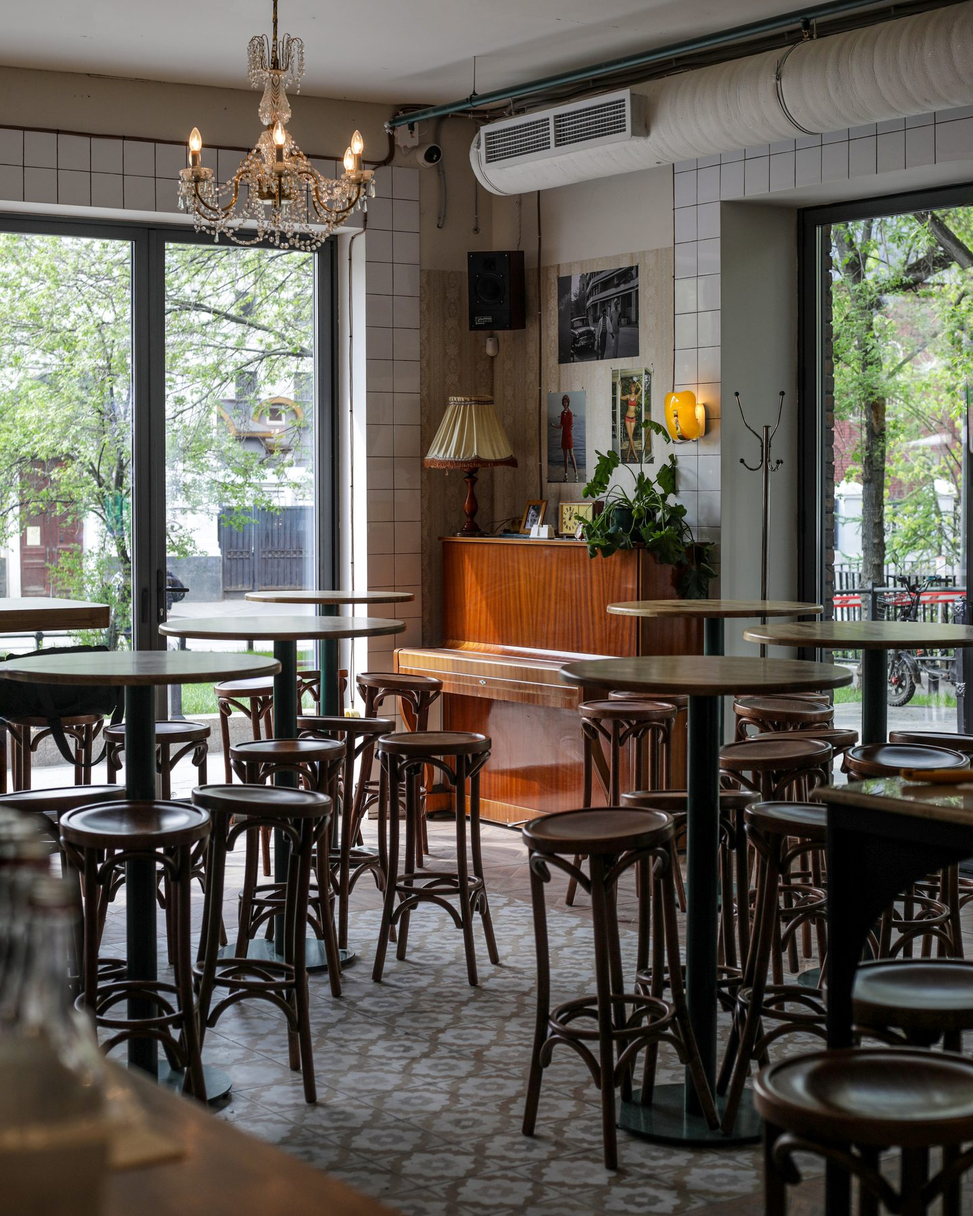
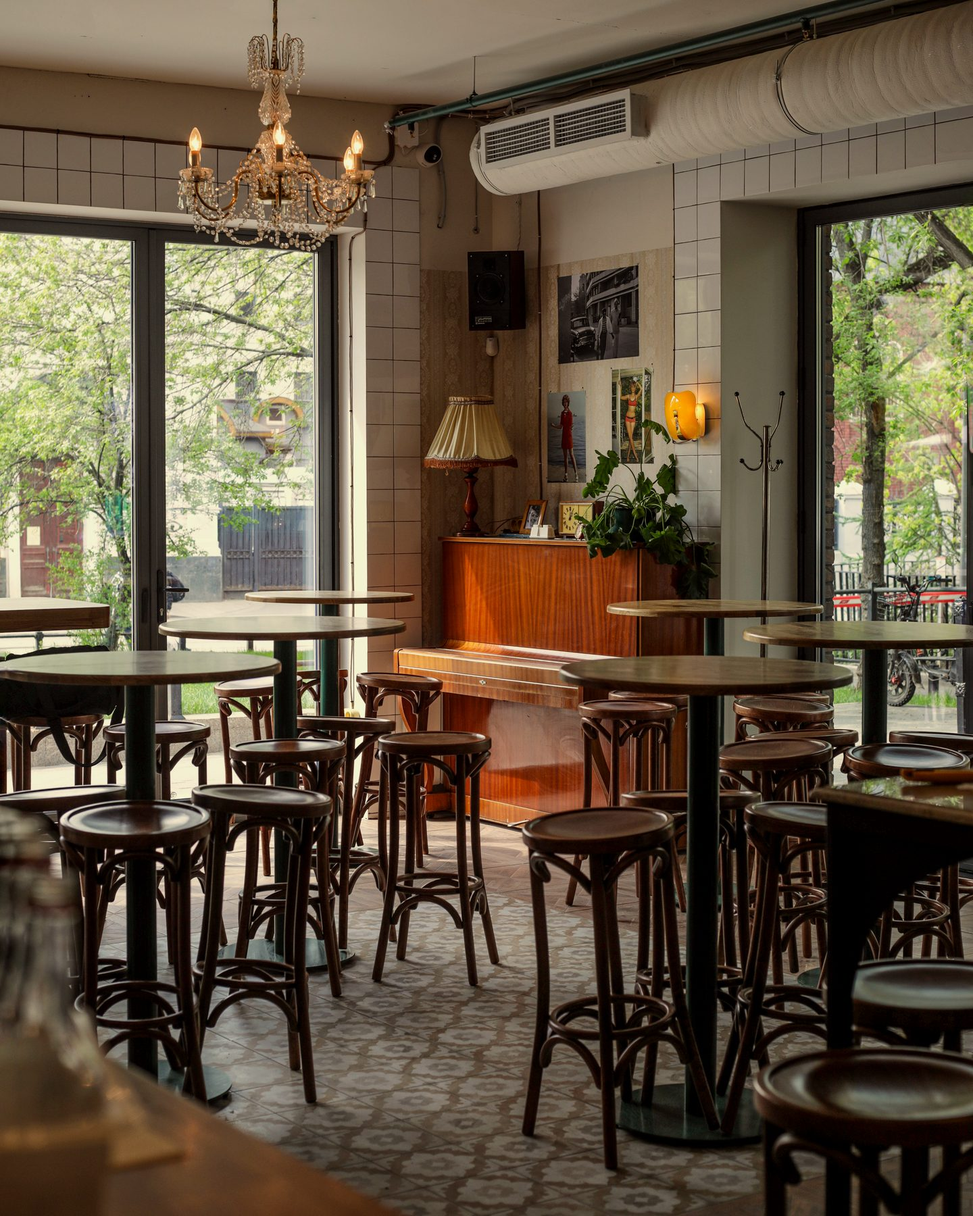
Главная: тёплая дымка и движение, плашки навигации, убрана полоска; Павелецкая теплее
Claude-Session: https://claude.ai/code/session_01RRSism5VGc6i1ygJSQoyry

diff --git a/index.html b/index.html
@@ -17,19 +17,21 @@ img{display:block;max-width:100%}
 /* nav */
 .nav{position:fixed;inset:0 0 auto 0;z-index:20;display:flex;align-items:center;justify-content:space-between;padding:22px clamp(16px,3vw,48px);transition:background .5s,padding .5s;mix-blend-mode:normal}
 .nav.solid{background:rgba(15,13,11,.82);backdrop-filter:blur(12px);-webkit-backdrop-filter:blur(12px);padding:14px clamp(16px,3vw,48px)}
+.nav .brand,.nav ul{border:1px solid rgba(241,236,228,.38);background:rgba(14,11,9,.18);backdrop-filter:blur(4px);-webkit-backdrop-filter:blur(4px);padding:11px 16px;transition:border-color .5s,background .5s}
+.nav.solid .brand,.nav.solid ul{border-color:transparent;background:transparent;padding:6px 0}
 .nav .brand{font:500 12px/1 var(--sans);letter-spacing:.3em;text-indent:.3em;text-transform:uppercase;white-space:nowrap}
 .nav .brand span{font-weight:300}
-.nav ul{display:flex;gap:clamp(18px,3vw,40px);list-style:none}
-.nav ul a{font:400 11px/1 var(--sans);letter-spacing:.22em;text-transform:uppercase;opacity:.8;transition:opacity .3s;padding:6px 0;position:relative}
+.nav ul{display:flex;gap:clamp(18px,3vw,40px);list-style:none;margin:0}
+.nav ul a{font:400 11px/1 var(--sans);letter-spacing:.22em;text-transform:uppercase;opacity:.9;transition:opacity .3s;padding:4px 0;position:relative;text-shadow:0 1px 8px rgba(0,0,0,.4)}
 .nav ul a:after{content:'';position:absolute;left:0;right:100%;bottom:0;height:1px;background:var(--ink);transition:right .4s}
 .nav ul a:hover{opacity:1}.nav ul a:hover:after{right:0}
-@media(max-width:640px){.nav ul{gap:16px}.nav ul a{font-size:10px;letter-spacing:.16em}}
+@media(max-width:640px){.nav{padding:14px 12px}.nav ul{gap:14px}.nav ul a{font-size:11px;letter-spacing:.14em}.nav .brand{font-size:11px;letter-spacing:.22em;text-indent:.22em}.nav .brand,.nav ul{padding:10px 12px}}
 /* hero */
 .hero{position:relative;height:100svh;min-height:560px;overflow:hidden;background:#0a0908}
-.slide{position:absolute;inset:-4%;background-size:cover;background-position:center;opacity:0;transition:opacity 2.2s ease;will-change:opacity,transform}
-.slide.on{opacity:1;animation:drift 26s ease-in-out infinite alternate}
-@keyframes drift{from{transform:scale(1) translate(0,0)}to{transform:scale(1.06) translate(-1%,.6%)}}
-.veil{position:absolute;inset:0;background:linear-gradient(180deg,rgba(10,9,8,.42) 0%,rgba(10,9,8,.10) 35%,rgba(10,9,8,.14) 65%,rgba(15,13,11,.92) 100%)}
+.slide{position:absolute;inset:-4%;background-size:cover;background-position:center;opacity:0;transition:opacity 2.2s ease;will-change:opacity,transform;filter:sepia(.14) saturate(.95)}
+.slide.on{opacity:1;animation:drift 24s ease-in-out infinite alternate}
+@keyframes drift{from{transform:scale(1) translate(0,0)}to{transform:scale(1.1) translate(-1.4%,-.9%)}}
+.veil{position:absolute;inset:0;background:linear-gradient(180deg,rgba(10,9,8,.42) 0%,rgba(10,9,8,.10) 35%,rgba(10,9,8,.14) 65%,rgba(15,13,11,.92) 100%),rgba(10,8,6,.30)}
 .grain{position:absolute;inset:0;opacity:.09;pointer-events:none;mix-blend-mode:overlay}
 .hero .center{position:absolute;left:50%;top:50%;transform:translate(-50%,-50%);display:flex;flex-direction:column;align-items:center;text-align:center;border:1px solid rgba(241,236,228,.5);background:rgba(14,11,9,.14);backdrop-filter:blur(2.5px);-webkit-backdrop-filter:blur(2.5px);padding:clamp(22px,3vw,36px) clamp(22px,3.4vw,44px);max-width:calc(100% - 40px)}
 .hero .center:after{content:'';position:absolute;inset:6px;border:1px solid rgba(241,236,228,.18);pointer-events:none}
@@ -134,7 +136,6 @@ footer{border-top:1px solid var(--line);padding:24px 0 34px;display:flex;justify
 <script type="application/ld+json">{"@context": "https://schema.org", "@type": "ProfessionalService", "name": "Cozy Buro", "founder": {"@type": "Person", "name": "Елена Друмлевич"}, "url": "https://cozyburo.ru", "image": "https://cozyburo.ru/img/rusalochka-asia/cover.jpg", "address": {"@type": "PostalAddress", "addressLocality": "Москва", "addressCountry": "RU"}, "sameAs": ["https://www.instagram.com/cozyburo/", "https://t.me/Lena_Drumlevich"], "description": "Бюро дизайна интерьеров ресторанов, баров и частных пространств"}</script></head><body><nav class="nav" id="nav"><a class="brand" href="">Cozy<span>Buro</span></a>
 <ul><li><a href="#projects">Проекты</a></li><li><a href="#buro">Бюро</a></li><li><a href="#contacts">Контакты</a></li></ul></nav><header class="hero"><div class="slide" id="s0"></div><div class="slide" id="s1"></div><div class="veil"></div><canvas class="grain" id="g"></canvas>
 <div class="center fade"><h1 class="mark"><span>Cozy</span><span>Buro</span><small>Interiors</small></h1><p class="line">Интерьеры с характером</p></div>
-<div class="scroll"></div>
 <div class="foot"><span class="cap" id="cap"></span><span>Moscow · since 2020</span></div></header>
 <main>
 <section class="block wrap" id="projects"><div class="head"><span class="n">01</span><h2>Коммерческие пространства</h2><span class="cnt">9 объектов</span></div>

diff --git a/p/pelmennaya.html b/p/pelmennaya.html
@@ -17,19 +17,21 @@ img{display:block;max-width:100%}
 /* nav */
 .nav{position:fixed;inset:0 0 auto 0;z-index:20;display:flex;align-items:center;justify-content:space-between;padding:22px clamp(16px,3vw,48px);transition:background .5s,padding .5s;mix-blend-mode:normal}
 .nav.solid{background:rgba(15,13,11,.82);backdrop-filter:blur(12px);-webkit-backdrop-filter:blur(12px);padding:14px clamp(16px,3vw,48px)}
+.nav .brand,.nav ul{border:1px solid rgba(241,236,228,.38);background:rgba(14,11,9,.18);backdrop-filter:blur(4px);-webkit-backdrop-filter:blur(4px);padding:11px 16px;transition:border-color .5s,background .5s}
+.nav.solid .brand,.nav.solid ul{border-color:transparent;background:transparent;padding:6px 0}
 .nav .brand{font:500 12px/1 var(--sans);letter-spacing:.3em;text-indent:.3em;text-transform:uppercase;white-space:nowrap}
 .nav .brand span{font-weight:300}
-.nav ul{display:flex;gap:clamp(18px,3vw,40px);list-style:none}
-.nav ul a{font:400 11px/1 var(--sans);letter-spacing:.22em;text-transform:uppercase;opacity:.8;transition:opacity .3s;padding:6px 0;position:relative}
+.nav ul{display:flex;gap:clamp(18px,3vw,40px);list-style:none;margin:0}
+.nav ul a{font:400 11px/1 var(--sans);letter-spacing:.22em;text-transform:uppercase;opacity:.9;transition:opacity .3s;padding:4px 0;position:relative;text-shadow:0 1px 8px rgba(0,0,0,.4)}
 .nav ul a:after{content:'';position:absolute;left:0;right:100%;bottom:0;height:1px;background:var(--ink);transition:right .4s}
 .nav ul a:hover{opacity:1}.nav ul a:hover:after{right:0}
-@media(max-width:640px){.nav ul{gap:16px}.nav ul a{font-size:10px;letter-spacing:.16em}}
+@media(max-width:640px){.nav{padding:14px 12px}.nav ul{gap:14px}.nav ul a{font-size:11px;letter-spacing:.14em}.nav .brand{font-size:11px;letter-spacing:.22em;text-indent:.22em}.nav .brand,.nav ul{padding:10px 12px}}
 /* hero */
 .hero{position:relative;height:100svh;min-height:560px;overflow:hidden;background:#0a0908}
-.slide{position:absolute;inset:-4%;background-size:cover;background-position:center;opacity:0;transition:opacity 2.2s ease;will-change:opacity,transform}
-.slide.on{opacity:1;animation:drift 26s ease-in-out infinite alternate}
-@keyframes drift{from{transform:scale(1) translate(0,0)}to{transform:scale(1.06) translate(-1%,.6%)}}
-.veil{position:absolute;inset:0;background:linear-gradient(180deg,rgba(10,9,8,.42) 0%,rgba(10,9,8,.10) 35%,rgba(10,9,8,.14) 65%,rgba(15,13,11,.92) 100%)}
+.slide{position:absolute;inset:-4%;background-size:cover;background-position:center;opacity:0;transition:opacity 2.2s ease;will-change:opacity,transform;filter:sepia(.14) saturate(.95)}
+.slide.on{opacity:1;animation:drift 24s ease-in-out infinite alternate}
+@keyframes drift{from{transform:scale(1) translate(0,0)}to{transform:scale(1.1) translate(-1.4%,-.9%)}}
+.veil{position:absolute;inset:0;background:linear-gradient(180deg,rgba(10,9,8,.42) 0%,rgba(10,9,8,.10) 35%,rgba(10,9,8,.14) 65%,rgba(15,13,11,.92) 100%),rgba(10,8,6,.30)}
 .grain{position:absolute;inset:0;opacity:.09;pointer-events:none;mix-blend-mode:overlay}
 .hero .center{position:absolute;left:50%;top:50%;transform:translate(-50%,-50%);display:flex;flex-direction:column;align-items:center;text-align:center;border:1px solid rgba(241,236,228,.5);background:rgba(14,11,9,.14);backdrop-filter:blur(2.5px);-webkit-backdrop-filter:blur(2.5px);padding:clamp(22px,3vw,36px) clamp(22px,3.4vw,44px);max-width:calc(100% - 40px)}
 .hero .center:after{content:'';position:absolute;inset:6px;border:1px solid rgba(241,236,228,.18);pointer-events:none}

diff --git a/p/riesling-boyz.html b/p/riesling-boyz.html
@@ -17,19 +17,21 @@ img{display:block;max-width:100%}
 /* nav */
 .nav{position:fixed;inset:0 0 auto 0;z-index:20;display:flex;align-items:center;justify-content:space-between;padding:22px clamp(16px,3vw,48px);transition:background .5s,padding .5s;mix-blend-mode:normal}
 .nav.solid{background:rgba(15,13,11,.82);backdrop-filter:blur(12px);-webkit-backdrop-filter:blur(12px);padding:14px clamp(16px,3vw,48px)}
+.nav .brand,.nav ul{border:1px solid rgba(241,236,228,.38);background:rgba(14,11,9,.18);backdrop-filter:blur(4px);-webkit-backdrop-filter:blur(4px);padding:11px 16px;transition:border-color .5s,background .5s}
+.nav.solid .brand,.nav.solid ul{border-color:transparent;background:transparent;padding:6px 0}
 .nav .brand{font:500 12px/1 var(--sans);letter-spacing:.3em;text-indent:.3em;text-transform:uppercase;white-space:nowrap}
 .nav .brand span{font-weight:300}
-.nav ul{display:flex;gap:clamp(18px,3vw,40px);list-style:none}
-.nav ul a{font:400 11px/1 var(--sans);letter-spacing:.22em;text-transform:uppercase;opacity:.8;transition:opacity .3s;padding:6px 0;position:relative}
+.nav ul{display:flex;gap:clamp(18px,3vw,40px);list-style:none;margin:0}
+.nav ul a{font:400 11px/1 var(--sans);letter-spacing:.22em;text-transform:uppercase;opacity:.9;transition:opacity .3s;padding:4px 0;position:relative;text-shadow:0 1px 8px rgba(0,0,0,.4)}
 .nav ul a:after{content:'';position:absolute;left:0;right:100%;bottom:0;height:1px;background:var(--ink);transition:right .4s}
 .nav ul a:hover{opacity:1}.nav ul a:hover:after{right:0}
-@media(max-width:640px){.nav ul{gap:16px}.nav ul a{font-size:10px;letter-spacing:.16em}}
+@media(max-width:640px){.nav{padding:14px 12px}.nav ul{gap:14px}.nav ul a{font-size:11px;letter-spacing:.14em}.nav .brand{font-size:11px;letter-spacing:.22em;text-indent:.22em}.nav .brand,.nav ul{padding:10px 12px}}
 /* hero */
 .hero{position:relative;height:100svh;min-height:560px;overflow:hidden;background:#0a0908}
-.slide{position:absolute;inset:-4%;background-size:cover;background-position:center;opacity:0;transition:opacity 2.2s ease;will-change:opacity,transform}
-.slide.on{opacity:1;animation:drift 26s ease-in-out infinite alternate}
-@keyframes drift{from{transform:scale(1) translate(0,0)}to{transform:scale(1.06) translate(-1%,.6%)}}
-.veil{position:absolute;inset:0;background:linear-gradient(180deg,rgba(10,9,8,.42) 0%,rgba(10,9,8,.10) 35%,rgba(10,9,8,.14) 65%,rgba(15,13,11,.92) 100%)}
+.slide{position:absolute;inset:-4%;background-size:cover;background-position:center;opacity:0;transition:opacity 2.2s ease;will-change:opacity,transform;filter:sepia(.14) saturate(.95)}
+.slide.on{opacity:1;animation:drift 24s ease-in-out infinite alternate}
+@keyframes drift{from{transform:scale(1) translate(0,0)}to{transform:scale(1.1) translate(-1.4%,-.9%)}}
+.veil{position:absolute;inset:0;background:linear-gradient(180deg,rgba(10,9,8,.42) 0%,rgba(10,9,8,.10) 35%,rgba(10,9,8,.14) 65%,rgba(15,13,11,.92) 100%),rgba(10,8,6,.30)}
 .grain{position:absolute;inset:0;opacity:.09;pointer-events:none;mix-blend-mode:overlay}
 .hero .center{position:absolute;left:50%;top:50%;transform:translate(-50%,-50%);display:flex;flex-direction:column;align-items:center;text-align:center;border:1px solid rgba(241,236,228,.5);background:rgba(14,11,9,.14);backdrop-filter:blur(2.5px);-webkit-backdrop-filter:blur(2.5px);padding:clamp(22px,3vw,36px) clamp(22px,3.4vw,44px);max-width:calc(100% - 40px)}
 .hero .center:after{content:'';position:absolute;inset:6px;border:1px solid rgba(241,236,228,.18);pointer-events:none}

diff --git a/p/rusalochka-asia.html b/p/rusalochka-asia.html
@@ -17,19 +17,21 @@ img{display:block;max-width:100%}
 /* nav */
 .nav{position:fixed;inset:0 0 auto 0;z-index:20;display:flex;align-items:center;justify-content:space-between;padding:22px clamp(16px,3vw,48px);transition:background .5s,padding .5s;mix-blend-mode:normal}
 .nav.solid{background:rgba(15,13,11,.82);backdrop-filter:blur(12px);-webkit-backdrop-filter:blur(12px);padding:14px clamp(16px,3vw,48px)}
+.nav .brand,.nav ul{border:1px solid rgba(241,236,228,.38);background:rgba(14,11,9,.18);backdrop-filter:blur(4px);-webkit-backdrop-filter:blur(4px);padding:11px 16px;transition:border-color .5s,background .5s}
+.nav.solid .brand,.nav.solid ul{border-color:transparent;background:transparent;padding:6px 0}
 .nav .brand{font:500 12px/1 var(--sans);letter-spacing:.3em;text-indent:.3em;text-transform:uppercase;white-space:nowrap}
 .nav .brand span{font-weight:300}
-.nav ul{display:flex;gap:clamp(18px,3vw,40px);list-style:none}
-.nav ul a{font:400 11px/1 var(--sans);letter-spacing:.22em;text-transform:uppercase;opacity:.8;transition:opacity .3s;padding:6px 0;position:relative}
+.nav ul{display:flex;gap:clamp(18px,3vw,40px);list-style:none;margin:0}
+.nav ul a{font:400 11px/1 var(--sans);letter-spacing:.22em;text-transform:uppercase;opacity:.9;transition:opacity .3s;padding:4px 0;position:relative;text-shadow:0 1px 8px rgba(0,0,0,.4)}
 .nav ul a:after{content:'';position:absolute;left:0;right:100%;bottom:0;height:1px;background:var(--ink);transition:right .4s}
 .nav ul a:hover{opacity:1}.nav ul a:hover:after{right:0}
-@media(max-width:640px){.nav ul{gap:16px}.nav ul a{font-size:10px;letter-spacing:.16em}}
+@media(max-width:640px){.nav{padding:14px 12px}.nav ul{gap:14px}.nav ul a{font-size:11px;letter-spacing:.14em}.nav .brand{font-size:11px;letter-spacing:.22em;text-indent:.22em}.nav .brand,.nav ul{padding:10px 12px}}
 /* hero */
 .hero{position:relative;height:100svh;min-height:560px;overflow:hidden;background:#0a0908}
-.slide{position:absolute;inset:-4%;background-size:cover;background-position:center;opacity:0;transition:opacity 2.2s ease;will-change:opacity,transform}
-.slide.on{opacity:1;animation:drift 26s ease-in-out infinite alternate}
-@keyframes drift{from{transform:scale(1) translate(0,0)}to{transform:scale(1.06) translate(-1%,.6%)}}
-.veil{position:absolute;inset:0;background:linear-gradient(180deg,rgba(10,9,8,.42) 0%,rgba(10,9,8,.10) 35%,rgba(10,9,8,.14) 65%,rgba(15,13,11,.92) 100%)}
+.slide{position:absolute;inset:-4%;background-size:cover;background-position:center;opacity:0;transition:opacity 2.2s ease;will-change:opacity,transform;filter:sepia(.14) saturate(.95)}
+.slide.on{opacity:1;animation:drift 24s ease-in-out infinite alternate}
+@keyframes drift{from{transform:scale(1) translate(0,0)}to{transform:scale(1.1) translate(-1.4%,-.9%)}}
+.veil{position:absolute;inset:0;background:linear-gradient(180deg,rgba(10,9,8,.42) 0%,rgba(10,9,8,.10) 35%,rgba(10,9,8,.14) 65%,rgba(15,13,11,.92) 100%),rgba(10,8,6,.30)}
 .grain{position:absolute;inset:0;opacity:.09;pointer-events:none;mix-blend-mode:overlay}
 .hero .center{position:absolute;left:50%;top:50%;transform:translate(-50%,-50%);display:flex;flex-direction:column;align-items:center;text-align:center;border:1px solid rgba(241,236,228,.5);background:rgba(14,11,9,.14);backdrop-filter:blur(2.5px);-webkit-backdrop-filter:blur(2.5px);padding:clamp(22px,3vw,36px) clamp(22px,3.4vw,44px);max-width:calc(100% - 40px)}
 .hero .center:after{content:'';position:absolute;inset:6px;border:1px solid rgba(241,236,228,.18);pointer-events:none}

diff --git a/p/rusalochka-sushi.html b/p/rusalochka-sushi.html
@@ -17,19 +17,21 @@ img{display:block;max-width:100%}
 /* nav */
 .nav{position:fixed;inset:0 0 auto 0;z-index:20;display:flex;align-items:center;justify-content:space-between;padding:22px clamp(16px,3vw,48px);transition:background .5s,padding .5s;mix-blend-mode:normal}
 .nav.solid{background:rgba(15,13,11,.82);backdrop-filter:blur(12px);-webkit-backdrop-filter:blur(12px);padding:14px clamp(16px,3vw,48px)}
+.nav .brand,.nav ul{border:1px solid rgba(241,236,228,.38);background:rgba(14,11,9,.18);backdrop-filter:blur(4px);-webkit-backdrop-filter:blur(4px);padding:11px 16px;transition:border-color .5s,background .5s}
+.nav.solid .brand,.nav.solid ul{border-color:transparent;background:transparent;padding:6px 0}
 .nav .brand{font:500 12px/1 var(--sans);letter-spacing:.3em;text-indent:.3em;text-transform:uppercase;white-space:nowrap}
 .nav .brand span{font-weight:300}
-.nav ul{display:flex;gap:clamp(18px,3vw,40px);list-style:none}
-.nav ul a{font:400 11px/1 var(--sans);letter-spacing:.22em;text-transform:uppercase;opacity:.8;transition:opacity .3s;padding:6px 0;position:relative}
+.nav ul{display:flex;gap:clamp(18px,3vw,40px);list-style:none;margin:0}
+.nav ul a{font:400 11px/1 var(--sans);letter-spacing:.22em;text-transform:uppercase;opacity:.9;transition:opacity .3s;padding:4px 0;position:relative;text-shadow:0 1px 8px rgba(0,0,0,.4)}
 .nav ul a:after{content:'';position:absolute;left:0;right:100%;bottom:0;height:1px;background:var(--ink);transition:right .4s}
 .nav ul a:hover{opacity:1}.nav ul a:hover:after{right:0}
-@media(max-width:640px){.nav ul{gap:16px}.nav ul a{font-size:10px;letter-spacing:.16em}}
+@media(max-width:640px){.nav{padding:14px 12px}.nav ul{gap:14px}.nav ul a{font-size:11px;letter-spacing:.14em}.nav .brand{font-size:11px;letter-spacing:.22em;text-indent:.22em}.nav .brand,.nav ul{padding:10px 12px}}
 /* hero */
 .hero{position:relative;height:100svh;min-height:560px;overflow:hidden;background:#0a0908}
-.slide{position:absolute;inset:-4%;background-size:cover;background-position:center;opacity:0;transition:opacity 2.2s ease;will-change:opacity,transform}
-.slide.on{opacity:1;animation:drift 26s ease-in-out infinite alternate}
-@keyframes drift{from{transform:scale(1) translate(0,0)}to{transform:scale(1.06) translate(-1%,.6%)}}
-.veil{position:absolute;inset:0;background:linear-gradient(180deg,rgba(10,9,8,.42) 0%,rgba(10,9,8,.10) 35%,rgba(10,9,8,.14) 65%,rgba(15,13,11,.92) 100%)}
+.slide{position:absolute;inset:-4%;background-size:cover;background-position:center;opacity:0;transition:opacity 2.2s ease;will-change:opacity,transform;filter:sepia(.14) saturate(.95)}
+.slide.on{opacity:1;animation:drift 24s ease-in-out infinite alternate}
+@keyframes drift{from{transform:scale(1) translate(0,0)}to{transform:scale(1.1) translate(-1.4%,-.9%)}}
+.veil{position:absolute;inset:0;background:linear-gradient(180deg,rgba(10,9,8,.42) 0%,rgba(10,9,8,.10) 35%,rgba(10,9,8,.14) 65%,rgba(15,13,11,.92) 100%),rgba(10,8,6,.30)}
 .grain{position:absolute;inset:0;opacity:.09;pointer-events:none;mix-blend-mode:overlay}
 .hero .center{position:absolute;left:50%;top:50%;transform:translate(-50%,-50%);display:flex;flex-direction:column;align-items:center;text-align:center;border:1px solid rgba(241,236,228,.5);background:rgba(14,11,9,.14);backdrop-filter:blur(2.5px);-webkit-backdrop-filter:blur(2.5px);padding:clamp(22px,3vw,36px) clamp(22px,3.4vw,44px);max-width:calc(100% - 40px)}
 .hero .center:after{content:'';position:absolute;inset:6px;border:1px solid rgba(241,236,228,.18);pointer-events:none}

diff --git a/p/shashlychnaya-kutuzovskaya.html b/p/shashlychnaya-kutuzovskaya.html
@@ -17,19 +17,21 @@ img{display:block;max-width:100%}
 /* nav */
 .nav{position:fixed;inset:0 0 auto 0;z-index:20;display:flex;align-items:center;justify-content:space-between;padding:22px clamp(16px,3vw,48px);transition:background .5s,padding .5s;mix-blend-mode:normal}
 .nav.solid{background:rgba(15,13,11,.82);backdrop-filter:blur(12px);-webkit-backdrop-filter:blur(12px);padding:14px clamp(16px,3vw,48px)}
+.nav .brand,.nav ul{border:1px solid rgba(241,236,228,.38);background:rgba(14,11,9,.18);backdrop-filter:blur(4px);-webkit-backdrop-filter:blur(4px);padding:11px 16px;transition:border-color .5s,background .5s}
+.nav.solid .brand,.nav.solid ul{border-color:transparent;background:transparent;padding:6px 0}
 .nav .brand{font:500 12px/1 var(--sans);letter-spacing:.3em;text-indent:.3em;text-transform:uppercase;white-space:nowrap}
 .nav .brand span{font-weight:300}
-.nav ul{display:flex;gap:clamp(18px,3vw,40px);list-style:none}
-.nav ul a{font:400 11px/1 var(--sans);letter-spacing:.22em;text-transform:uppercase;opacity:.8;transition:opacity .3s;padding:6px 0;position:relative}
+.nav ul{display:flex;gap:clamp(18px,3vw,40px);list-style:none;margin:0}
+.nav ul a{font:400 11px/1 var(--sans);letter-spacing:.22em;text-transform:uppercase;opacity:.9;transition:opacity .3s;padding:4px 0;position:relative;text-shadow:0 1px 8px rgba(0,0,0,.4)}
 .nav ul a:after{content:'';position:absolute;left:0;right:100%;bottom:0;height:1px;background:var(--ink);transition:right .4s}
 .nav ul a:hover{opacity:1}.nav ul a:hover:after{right:0}
-@media(max-width:640px){.nav ul{gap:16px}.nav ul a{font-size:10px;letter-spacing:.16em}}
+@media(max-width:640px){.nav{padding:14px 12px}.nav ul{gap:14px}.nav ul a{font-size:11px;letter-spacing:.14em}.nav .brand{font-size:11px;letter-spacing:.22em;text-indent:.22em}.nav .brand,.nav ul{padding:10px 12px}}
 /* hero */
 .hero{position:relative;height:100svh;min-height:560px;overflow:hidden;background:#0a0908}
-.slide{position:absolute;inset:-4%;background-size:cover;background-position:center;opacity:0;transition:opacity 2.2s ease;will-change:opacity,transform}
-.slide.on{opacity:1;animation:drift 26s ease-in-out infinite alternate}
-@keyframes drift{from{transform:scale(1) translate(0,0)}to{transform:scale(1.06) translate(-1%,.6%)}}
-.veil{position:absolute;inset:0;background:linear-gradient(180deg,rgba(10,9,8,.42) 0%,rgba(10,9,8,.10) 35%,rgba(10,9,8,.14) 65%,rgba(15,13,11,.92) 100%)}
+.slide{position:absolute;inset:-4%;background-size:cover;background-position:center;opacity:0;transition:opacity 2.2s ease;will-change:opacity,transform;filter:sepia(.14) saturate(.95)}
+.slide.on{opacity:1;animation:drift 24s ease-in-out infinite alternate}
+@keyframes drift{from{transform:scale(1) translate(0,0)}to{transform:scale(1.1) translate(-1.4%,-.9%)}}
+.veil{position:absolute;inset:0;background:linear-gradient(180deg,rgba(10,9,8,.42) 0%,rgba(10,9,8,.10) 35%,rgba(10,9,8,.14) 65%,rgba(15,13,11,.92) 100%),rgba(10,8,6,.30)}
 .grain{position:absolute;inset:0;opacity:.09;pointer-events:none;mix-blend-mode:overlay}
 .hero .center{position:absolute;left:50%;top:50%;transform:translate(-50%,-50%);display:flex;flex-direction:column;align-items:center;text-align:center;border:1px solid rgba(241,236,228,.5);background:rgba(14,11,9,.14);backdrop-filter:blur(2.5px);-webkit-backdrop-filter:blur(2.5px);padding:clamp(22px,3vw,36px) clamp(22px,3.4vw,44px);max-width:calc(100% - 40px)}
 .hero .center:after{content:'';position:absolute;inset:6px;border:1px solid rgba(241,236,228,.18);pointer-events:none}

diff --git a/p/shashlychnaya-mayakovskaya.html b/p/shashlychnaya-mayakovskaya.html
@@ -17,19 +17,21 @@ img{display:block;max-width:100%}
 /* nav */
 .nav{position:fixed;inset:0 0 auto 0;z-index:20;display:flex;align-items:center;justify-content:space-between;padding:22px clamp(16px,3vw,48px);transition:background .5s,padding .5s;mix-blend-mode:normal}
 .nav.solid{background:rgba(15,13,11,.82);backdrop-filter:blur(12px);-webkit-backdrop-filter:blur(12px);padding:14px clamp(16px,3vw,48px)}
+.nav .brand,.nav ul{border:1px solid rgba(241,236,228,.38);background:rgba(14,11,9,.18);backdrop-filter:blur(4px);-webkit-backdrop-filter:blur(4px);padding:11px 16px;transition:border-color .5s,background .5s}
+.nav.solid .brand,.nav.solid ul{border-color:transparent;background:transparent;padding:6px 0}
 .nav .brand{font:500 12px/1 var(--sans);letter-spacing:.3em;text-indent:.3em;text-transform:uppercase;white-space:nowrap}
 .nav .brand span{font-weight:300}
-.nav ul{display:flex;gap:clamp(18px,3vw,40px);list-style:none}
-.nav ul a{font:400 11px/1 var(--sans);letter-spacing:.22em;text-transform:uppercase;opacity:.8;transition:opacity .3s;padding:6px 0;position:relative}
+.nav ul{display:flex;gap:clamp(18px,3vw,40px);list-style:none;margin:0}
+.nav ul a{font:400 11px/1 var(--sans);letter-spacing:.22em;text-transform:uppercase;opacity:.9;transition:opacity .3s;padding:4px 0;position:relative;text-shadow:0 1px 8px rgba(0,0,0,.4)}
 .nav ul a:after{content:'';position:absolute;left:0;right:100%;bottom:0;height:1px;background:var(--ink);transition:right .4s}
 .nav ul a:hover{opacity:1}.nav ul a:hover:after{right:0}
-@media(max-width:640px){.nav ul{gap:16px}.nav ul a{font-size:10px;letter-spacing:.16em}}
+@media(max-width:640px){.nav{padding:14px 12px}.nav ul{gap:14px}.nav ul a{font-size:11px;letter-spacing:.14em}.nav .brand{font-size:11px;letter-spacing:.22em;text-indent:.22em}.nav .brand,.nav ul{padding:10px 12px}}
 /* hero */
 .hero{position:relative;height:100svh;min-height:560px;overflow:hidden;background:#0a0908}
-.slide{position:absolute;inset:-4%;background-size:cover;background-position:center;opacity:0;transition:opacity 2.2s ease;will-change:opacity,transform}
-.slide.on{opacity:1;animation:drift 26s ease-in-out infinite alternate}
-@keyframes drift{from{transform:scale(1) translate(0,0)}to{transform:scale(1.06) translate(-1%,.6%)}}
-.veil{position:absolute;inset:0;background:linear-gradient(180deg,rgba(10,9,8,.42) 0%,rgba(10,9,8,.10) 35%,rgba(10,9,8,.14) 65%,rgba(15,13,11,.92) 100%)}
+.slide{position:absolute;inset:-4%;background-size:cover;background-position:center;opacity:0;transition:opacity 2.2s ease;will-change:opacity,transform;filter:sepia(.14) saturate(.95)}
+.slide.on{opacity:1;animation:drift 24s ease-in-out infinite alternate}
+@keyframes drift{from{transform:scale(1) translate(0,0)}to{transform:scale(1.1) translate(-1.4%,-.9%)}}
+.veil{position:absolute;inset:0;background:linear-gradient(180deg,rgba(10,9,8,.42) 0%,rgba(10,9,8,.10) 35%,rgba(10,9,8,.14) 65%,rgba(15,13,11,.92) 100%),rgba(10,8,6,.30)}
 .grain{position:absolute;inset:0;opacity:.09;pointer-events:none;mix-blend-mode:overlay}
 .hero .center{position:absolute;left:50%;top:50%;transform:translate(-50%,-50%);display:flex;flex-direction:column;align-items:center;text-align:center;border:1px solid rgba(241,236,228,.5);background:rgba(14,11,9,.14);backdrop-filter:blur(2.5px);-webkit-backdrop-filter:blur(2.5px);padding:clamp(22px,3vw,36px) clamp(22px,3.4vw,44px);max-width:calc(100% - 40px)}
 .hero .center:after{content:'';position:absolute;inset:6px;border:1px solid rgba(241,236,228,.18);pointer-events:none}

diff --git a/p/shashlychnaya-paveletskaya.html b/p/shashlychnaya-paveletskaya.html
@@ -17,19 +17,21 @@ img{display:block;max-width:100%}
 /* nav */
 .nav{position:fixed;inset:0 0 auto 0;z-index:20;display:flex;align-items:center;justify-content:space-between;padding:22px clamp(16px,3vw,48px);transition:background .5s,padding .5s;mix-blend-mode:normal}
 .nav.solid{background:rgba(15,13,11,.82);backdrop-filter:blur(12px);-webkit-backdrop-filter:blur(12px);padding:14px clamp(16px,3vw,48px)}
+.nav .brand,.nav ul{border:1px solid rgba(241,236,228,.38);background:rgba(14,11,9,.18);backdrop-filter:blur(4px);-webkit-backdrop-filter:blur(4px);padding:11px 16px;transition:border-color .5s,background .5s}
+.nav.solid .brand,.nav.solid ul{border-color:transparent;background:transparent;padding:6px 0}
 .nav .brand{font:500 12px/1 var(--sans);letter-spacing:.3em;text-indent:.3em;text-transform:uppercase;white-space:nowrap}
 .nav .brand span{font-weight:300}
-.nav ul{display:flex;gap:clamp(18px,3vw,40px);list-style:none}
-.nav ul a{font:400 11px/1 var(--sans);letter-spacing:.22em;text-transform:uppercase;opacity:.8;transition:opacity .3s;padding:6px 0;position:relative}
+.nav ul{display:flex;gap:clamp(18px,3vw,40px);list-style:none;margin:0}
+.nav ul a{font:400 11px/1 var(--sans);letter-spacing:.22em;text-transform:uppercase;opacity:.9;transition:opacity .3s;padding:4px 0;position:relative;text-shadow:0 1px 8px rgba(0,0,0,.4)}
 .nav ul a:after{content:'';position:absolute;left:0;right:100%;bottom:0;height:1px;background:var(--ink);transition:right .4s}
 .nav ul a:hover{opacity:1}.nav ul a:hover:after{right:0}
-@media(max-width:640px){.nav ul{gap:16px}.nav ul a{font-size:10px;letter-spacing:.16em}}
+@media(max-width:640px){.nav{padding:14px 12px}.nav ul{gap:14px}.nav ul a{font-size:11px;letter-spacing:.14em}.nav .brand{font-size:11px;letter-spacing:.22em;text-indent:.22em}.nav .brand,.nav ul{padding:10px 12px}}
 /* hero */
 .hero{position:relative;height:100svh;min-height:560px;overflow:hidden;background:#0a0908}
-.slide{position:absolute;inset:-4%;background-size:cover;background-position:center;opacity:0;transition:opacity 2.2s ease;will-change:opacity,transform}
-.slide.on{opacity:1;animation:drift 26s ease-in-out infinite alternate}
-@keyframes drift{from{transform:scale(1) translate(0,0)}to{transform:scale(1.06) translate(-1%,.6%)}}
-.veil{position:absolute;inset:0;background:linear-gradient(180deg,rgba(10,9,8,.42) 0%,rgba(10,9,8,.10) 35%,rgba(10,9,8,.14) 65%,rgba(15,13,11,.92) 100%)}
+.slide{position:absolute;inset:-4%;background-size:cover;background-position:center;opacity:0;transition:opacity 2.2s ease;will-change:opacity,transform;filter:sepia(.14) saturate(.95)}
+.slide.on{opacity:1;animation:drift 24s ease-in-out infinite alternate}
+@keyframes drift{from{transform:scale(1) translate(0,0)}to{transform:scale(1.1) translate(-1.4%,-.9%)}}
+.veil{position:absolute;inset:0;background:linear-gradient(180deg,rgba(10,9,8,.42) 0%,rgba(10,9,8,.10) 35%,rgba(10,9,8,.14) 65%,rgba(15,13,11,.92) 100%),rgba(10,8,6,.30)}
 .grain{position:absolute;inset:0;opacity:.09;pointer-events:none;mix-blend-mode:overlay}
 .hero .center{position:absolute;left:50%;top:50%;transform:translate(-50%,-50%);display:flex;flex-direction:column;align-items:center;text-align:center;border:1px solid rgba(241,236,228,.5);background:rgba(14,11,9,.14);backdrop-filter:blur(2.5px);-webkit-backdrop-filter:blur(2.5px);padding:clamp(22px,3vw,36px) clamp(22px,3.4vw,44px);max-width:calc(100% - 40px)}
 .hero .center:after{content:'';position:absolute;inset:6px;border:1px solid rgba(241,236,228,.18);pointer-events:none}

diff --git a/p/shashlychnaya-pyatnitskaya.html b/p/shashlychnaya-pyatnitskaya.html
@@ -17,19 +17,21 @@ img{display:block;max-width:100%}
 /* nav */
 .nav{position:fixed;inset:0 0 auto 0;z-index:20;display:flex;align-items:center;justify-content:space-between;padding:22px clamp(16px,3vw,48px);transition:background .5s,padding .5s;mix-blend-mode:normal}
 .nav.solid{background:rgba(15,13,11,.82);backdrop-filter:blur(12px);-webkit-backdrop-filter:blur(12px);padding:14px clamp(16px,3vw,48px)}
+.nav .brand,.nav ul{border:1px solid rgba(241,236,228,.38);background:rgba(14,11,9,.18);backdrop-filter:blur(4px);-webkit-backdrop-filter:blur(4px);padding:11px 16px;transition:border-color .5s,background .5s}
+.nav.solid .brand,.nav.solid ul{border-color:transparent;background:transparent;padding:6px 0}
 .nav .brand{font:500 12px/1 var(--sans);letter-spacing:.3em;text-indent:.3em;text-transform:uppercase;white-space:nowrap}
 .nav .brand span{font-weight:300}
-.nav ul{display:flex;gap:clamp(18px,3vw,40px);list-style:none}
-.nav ul a{font:400 11px/1 var(--sans);letter-spacing:.22em;text-transform:uppercase;opacity:.8;transition:opacity .3s;padding:6px 0;position:relative}
+.nav ul{display:flex;gap:clamp(18px,3vw,40px);list-style:none;margin:0}
+.nav ul a{font:400 11px/1 var(--sans);letter-spacing:.22em;text-transform:uppercase;opacity:.9;transition:opacity .3s;padding:4px 0;position:relative;text-shadow:0 1px 8px rgba(0,0,0,.4)}
 .nav ul a:after{content:'';position:absolute;left:0;right:100%;bottom:0;height:1px;background:var(--ink);transition:right .4s}
 .nav ul a:hover{opacity:1}.nav ul a:hover:after{right:0}
-@media(max-width:640px){.nav ul{gap:16px}.nav ul a{font-size:10px;letter-spacing:.16em}}
+@media(max-width:640px){.nav{padding:14px 12px}.nav ul{gap:14px}.nav ul a{font-size:11px;letter-spacing:.14em}.nav .brand{font-size:11px;letter-spacing:.22em;text-indent:.22em}.nav .brand,.nav ul{padding:10px 12px}}
 /* hero */
 .hero{position:relative;height:100svh;min-height:560px;overflow:hidden;background:#0a0908}
-.slide{position:absolute;inset:-4%;background-size:cover;background-position:center;opacity:0;transition:opacity 2.2s ease;will-change:opacity,transform}
-.slide.on{opacity:1;animation:drift 26s ease-in-out infinite alternate}
-@keyframes drift{from{transform:scale(1) translate(0,0)}to{transform:scale(1.06) translate(-1%,.6%)}}
-.veil{position:absolute;inset:0;background:linear-gradient(180deg,rgba(10,9,8,.42) 0%,rgba(10,9,8,.10) 35%,rgba(10,9,8,.14) 65%,rgba(15,13,11,.92) 100%)}
+.slide{position:absolute;inset:-4%;background-size:cover;background-position:center;opacity:0;transition:opacity 2.2s ease;will-change:opacity,transform;filter:sepia(.14) saturate(.95)}
+.slide.on{opacity:1;animation:drift 24s ease-in-out infinite alternate}
+@keyframes drift{from{transform:scale(1) translate(0,0)}to{transform:scale(1.1) translate(-1.4%,-.9%)}}
+.veil{position:absolute;inset:0;background:linear-gradient(180deg,rgba(10,9,8,.42) 0%,rgba(10,9,8,.10) 35%,rgba(10,9,8,.14) 65%,rgba(15,13,11,.92) 100%),rgba(10,8,6,.30)}
 .grain{position:absolute;inset:0;opacity:.09;pointer-events:none;mix-blend-mode:overlay}
 .hero .center{position:absolute;left:50%;top:50%;transform:translate(-50%,-50%);display:flex;flex-direction:column;align-items:center;text-align:center;border:1px solid rgba(241,236,228,.5);background:rgba(14,11,9,.14);backdrop-filter:blur(2.5px);-webkit-backdrop-filter:blur(2.5px);padding:clamp(22px,3vw,36px) clamp(22px,3.4vw,44px);max-width:calc(100% - 40px)}
 .hero .center:after{content:'';position:absolute;inset:6px;border:1px solid rgba(241,236,228,.18);pointer-events:none}

diff --git a/p/teburasi.html b/p/teburasi.html
@@ -17,19 +17,21 @@ img{display:block;max-width:100%}
 /* nav */
 .nav{position:fixed;inset:0 0 auto 0;z-index:20;display:flex;align-items:center;justify-content:space-between;padding:22px clamp(16px,3vw,48px);transition:background .5s,padding .5s;mix-blend-mode:normal}
 .nav.solid{background:rgba(15,13,11,.82);backdrop-filter:blur(12px);-webkit-backdrop-filter:blur(12px);padding:14px clamp(16px,3vw,48px)}
+.nav .brand,.nav ul{border:1px solid rgba(241,236,228,.38);background:rgba(14,11,9,.18);backdrop-filter:blur(4px);-webkit-backdrop-filter:blur(4px);padding:11px 16px;transition:border-color .5s,background .5s}
+.nav.solid .brand,.nav.solid ul{border-color:transparent;background:transparent;padding:6px 0}
 .nav .brand{font:500 12px/1 var(--sans);letter-spacing:.3em;text-indent:.3em;text-transform:uppercase;white-space:nowrap}
 .nav .brand span{font-weight:300}
-.nav ul{display:flex;gap:clamp(18px,3vw,40px);list-style:none}
-.nav ul a{font:400 11px/1 var(--sans);letter-spacing:.22em;text-transform:uppercase;opacity:.8;transition:opacity .3s;padding:6px 0;position:relative}
+.nav ul{display:flex;gap:clamp(18px,3vw,40px);list-style:none;margin:0}
+.nav ul a{font:400 11px/1 var(--sans);letter-spacing:.22em;text-transform:uppercase;opacity:.9;transition:opacity .3s;padding:4px 0;position:relative;text-shadow:0 1px 8px rgba(0,0,0,.4)}
 .nav ul a:after{content:'';position:absolute;left:0;right:100%;bottom:0;height:1px;background:var(--ink);transition:right .4s}
 .nav ul a:hover{opacity:1}.nav ul a:hover:after{right:0}
-@media(max-width:640px){.nav ul{gap:16px}.nav ul a{font-size:10px;letter-spacing:.16em}}
+@media(max-width:640px){.nav{padding:14px 12px}.nav ul{gap:14px}.nav ul a{font-size:11px;letter-spacing:.14em}.nav .brand{font-size:11px;letter-spacing:.22em;text-indent:.22em}.nav .brand,.nav ul{padding:10px 12px}}
 /* hero */
 .hero{position:relative;height:100svh;min-height:560px;overflow:hidden;background:#0a0908}
-.slide{position:absolute;inset:-4%;background-size:cover;background-position:center;opacity:0;transition:opacity 2.2s ease;will-change:opacity,transform}
-.slide.on{opacity:1;animation:drift 26s ease-in-out infinite alternate}
-@keyframes drift{from{transform:scale(1) translate(0,0)}to{transform:scale(1.06) translate(-1%,.6%)}}
-.veil{position:absolute;inset:0;background:linear-gradient(180deg,rgba(10,9,8,.42) 0%,rgba(10,9,8,.10) 35%,rgba(10,9,8,.14) 65%,rgba(15,13,11,.92) 100%)}
+.slide{position:absolute;inset:-4%;background-size:cover;background-position:center;opacity:0;transition:opacity 2.2s ease;will-change:opacity,transform;filter:sepia(.14) saturate(.95)}
+.slide.on{opacity:1;animation:drift 24s ease-in-out infinite alternate}
+@keyframes drift{from{transform:scale(1) translate(0,0)}to{transform:scale(1.1) translate(-1.4%,-.9%)}}
+.veil{position:absolute;inset:0;background:linear-gradient(180deg,rgba(10,9,8,.42) 0%,rgba(10,9,8,.10) 35%,rgba(10,9,8,.14) 65%,rgba(15,13,11,.92) 100%),rgba(10,8,6,.30)}
 .grain{position:absolute;inset:0;opacity:.09;pointer-events:none;mix-blend-mode:overlay}
 .hero .center{position:absolute;left:50%;top:50%;transform:translate(-50%,-50%);display:flex;flex-direction:column;align-items:center;text-align:center;border:1px solid rgba(241,236,228,.5);background:rgba(14,11,9,.14);backdrop-filter:blur(2.5px);-webkit-backdrop-filter:blur(2.5px);padding:clamp(22px,3vw,36px) clamp(22px,3.4vw,44px);max-width:calc(100% - 40px)}
 .hero .center:after{content:'';position:absolute;inset:6px;border:1px solid rgba(241,236,228,.18);pointer-events:none}

diff --git a/build/site.py b/build/site.py
@@ -20,19 +20,21 @@ img{display:block;max-width:100%}
 /* nav */
 .nav{position:fixed;inset:0 0 auto 0;z-index:20;display:flex;align-items:center;justify-content:space-between;padding:22px clamp(16px,3vw,48px);transition:background .5s,padding .5s;mix-blend-mode:normal}
 .nav.solid{background:rgba(15,13,11,.82);backdrop-filter:blur(12px);-webkit-backdrop-filter:blur(12px);padding:14px clamp(16px,3vw,48px)}
+.nav .brand,.nav ul{border:1px solid rgba(241,236,228,.38);background:rgba(14,11,9,.18);backdrop-filter:blur(4px);-webkit-backdrop-filter:blur(4px);padding:11px 16px;transition:border-color .5s,background .5s}
+.nav.solid .brand,.nav.solid ul{border-color:transparent;background:transparent;padding:6px 0}
 .nav .brand{font:500 12px/1 var(--sans);letter-spacing:.3em;text-indent:.3em;text-transform:uppercase;white-space:nowrap}
 .nav .brand span{font-weight:300}
-.nav ul{display:flex;gap:clamp(18px,3vw,40px);list-style:none}
-.nav ul a{font:400 11px/1 var(--sans);letter-spacing:.22em;text-transform:uppercase;opacity:.8;transition:opacity .3s;padding:6px 0;position:relative}
+.nav ul{display:flex;gap:clamp(18px,3vw,40px);list-style:none;margin:0}
+.nav ul a{font:400 11px/1 var(--sans);letter-spacing:.22em;text-transform:uppercase;opacity:.9;transition:opacity .3s;padding:4px 0;position:relative;text-shadow:0 1px 8px rgba(0,0,0,.4)}
 .nav ul a:after{content:'';position:absolute;left:0;right:100%;bottom:0;height:1px;background:var(--ink);transition:right .4s}
 .nav ul a:hover{opacity:1}.nav ul a:hover:after{right:0}
-@media(max-width:640px){.nav ul{gap:16px}.nav ul a{font-size:10px;letter-spacing:.16em}}
+@media(max-width:640px){.nav{padding:14px 12px}.nav ul{gap:14px}.nav ul a{font-size:11px;letter-spacing:.14em}.nav .brand{font-size:11px;letter-spacing:.22em;text-indent:.22em}.nav .brand,.nav ul{padding:10px 12px}}
 /* hero */
 .hero{position:relative;height:100svh;min-height:560px;overflow:hidden;background:#0a0908}
-.slide{position:absolute;inset:-4%;background-size:cover;background-position:center;opacity:0;transition:opacity 2.2s ease;will-change:opacity,transform}
-.slide.on{opacity:1;animation:drift 26s ease-in-out infinite alternate}
-@keyframes drift{from{transform:scale(1) translate(0,0)}to{transform:scale(1.06) translate(-1%,.6%)}}
-.veil{position:absolute;inset:0;background:linear-gradient(180deg,rgba(10,9,8,.42) 0%,rgba(10,9,8,.10) 35%,rgba(10,9,8,.14) 65%,rgba(15,13,11,.92) 100%)}
+.slide{position:absolute;inset:-4%;background-size:cover;background-position:center;opacity:0;transition:opacity 2.2s ease;will-change:opacity,transform;filter:sepia(.14) saturate(.95)}
+.slide.on{opacity:1;animation:drift 24s ease-in-out infinite alternate}
+@keyframes drift{from{transform:scale(1) translate(0,0)}to{transform:scale(1.1) translate(-1.4%,-.9%)}}
+.veil{position:absolute;inset:0;background:linear-gradient(180deg,rgba(10,9,8,.42) 0%,rgba(10,9,8,.10) 35%,rgba(10,9,8,.14) 65%,rgba(15,13,11,.92) 100%),rgba(10,8,6,.30)}
 .grain{position:absolute;inset:0;opacity:.09;pointer-events:none;mix-blend-mode:overlay}
 .hero .center{position:absolute;left:50%;top:50%;transform:translate(-50%,-50%);display:flex;flex-direction:column;align-items:center;text-align:center;border:1px solid rgba(241,236,228,.5);background:rgba(14,11,9,.14);backdrop-filter:blur(2.5px);-webkit-backdrop-filter:blur(2.5px);padding:clamp(22px,3vw,36px) clamp(22px,3.4vw,44px);max-width:calc(100% - 40px)}
 .hero .center:after{content:'';position:absolute;inset:6px;border:1px solid rgba(241,236,228,.18);pointer-events:none}
@@ -202,7 +204,6 @@ def build_index():
     h += NAV.format(solid='', base='')
     h += """<header class="hero"><div class="slide" id="s0"></div><div class="slide" id="s1"></div><div class="veil"></div><canvas class="grain" id="g"></canvas>
 <div class="center fade"><h1 class="mark"><span>Cozy</span><span>Buro</span><small>Interiors</small></h1><p class="line">Интерьеры с характером</p></div>
-<div class="scroll"></div>
 <div class="foot"><span class="cap" id="cap"></span><span>Moscow · since 2020</span></div></header>
 <main>
 <section class="block wrap" id="projects"><div class="head"><span class="n">01</span><h2>Коммерческие пространства</h2><span class="cnt">%d объектов</span></div>

diff --git a/build/images.py b/build/images.py
@@ -11,8 +11,21 @@ def find(folder, n):
     fs = sorted(glob.glob(os.path.join(SRC, folder, '%02d_*' % n)))
     return fs[0]
 
+from PIL import ImageEnhance
+def warmify(im):
+    r, g, b = im.split()
+    r = r.point(lambda v: min(255, int(v * 1.05 + 4)))
+    g = g.point(lambda v: min(255, int(v * 1.0)))
+    b = b.point(lambda v: int(v * 0.88))
+    im = Image.merge('RGB', (r, g, b))
+    im = ImageEnhance.Brightness(im).enhance(0.93)
+    im = ImageEnhance.Color(im).enhance(1.08)
+    im = ImageEnhance.Contrast(im).enhance(1.04)
+    return im
+WARM = False
 def save(im, path, long_side, q=82):
     im = ImageOps.exif_transpose(im).convert('RGB')
+    if WARM: im = warmify(im)
     w, h = im.size
     s = long_side / max(w, h)
     if s < 1:
@@ -22,6 +35,7 @@ def save(im, path, long_side, q=82):
 
 meta = {}
 for p in PROJECTS:
+    WARM = bool(p.get('warm'))
     d = os.path.join(OUT, p['slug']); os.makedirs(d, exist_ok=True)
     items = []
     for k, n in enumerate(p['photos']):
